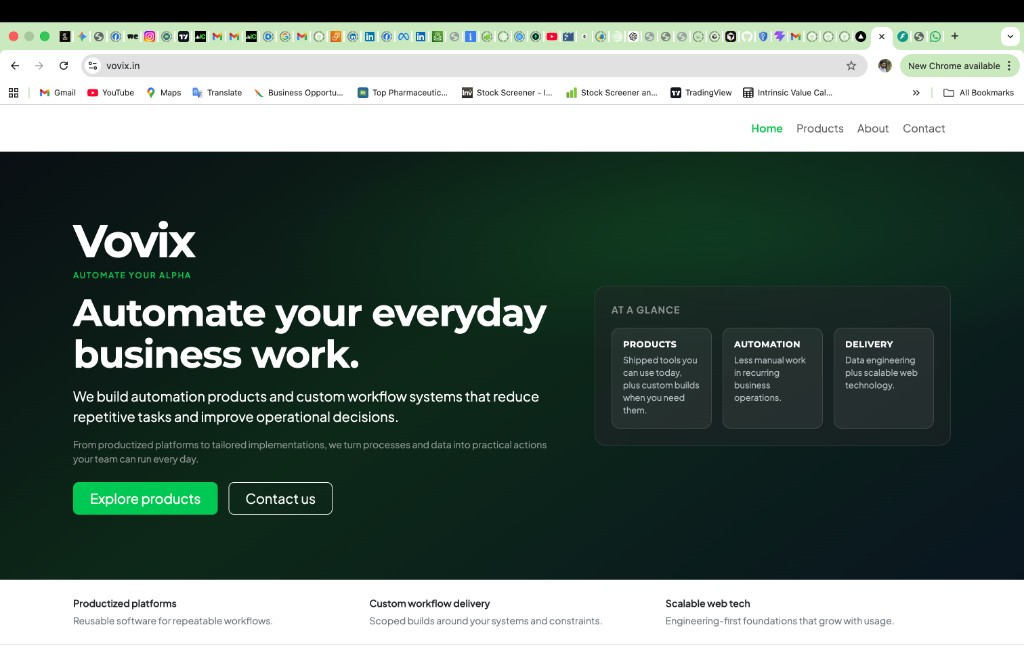
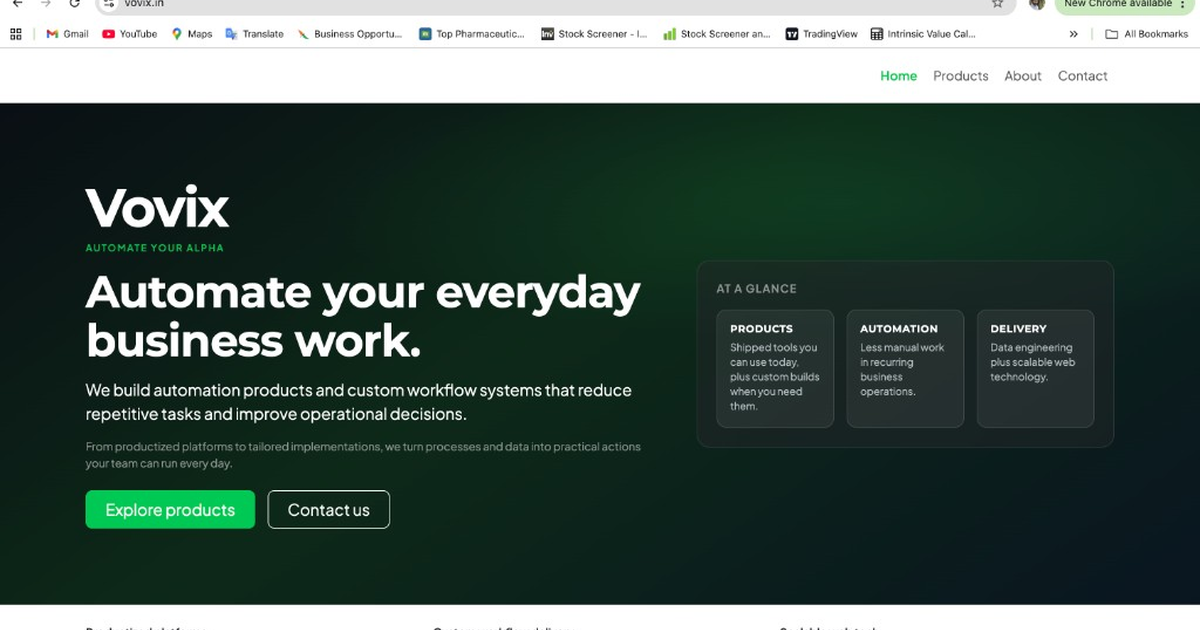
Fix corrupted social preview image format for Facebook scraper.
Convert og-image asset to a real 1200x630 PNG and update OG/Twitter metadata to use the clean static image URL without query params.

Made-with: Cursor

diff --git a/index.html b/index.html
@@ -16,8 +16,8 @@
     <meta property="og:type" content="website" />
     <meta property="og:site_name" content="Vovix" />
     <meta property="og:url" content="https://www.vovix.in/" />
-    <meta property="og:image" content="https://www.vovix.in/assets/og-image.png?v=20260426f" />
-    <meta property="og:image:secure_url" content="https://www.vovix.in/assets/og-image.png?v=20260426f" />
+    <meta property="og:image" content="https://www.vovix.in/assets/og-image.png" />
+    <meta property="og:image:secure_url" content="https://www.vovix.in/assets/og-image.png" />
     <meta property="og:image:width" content="1200" />
     <meta property="og:image:height" content="630" />
     <meta property="og:image:alt" content="Vovix - Automate Your Alpha" />
@@ -27,7 +27,7 @@
       name="twitter:description"
       content="Vovix Private Limited (vovix.in), India: automation products, operational intelligence, and custom workflow delivery for teams."
     />
-    <meta name="twitter:image" content="https://www.vovix.in/assets/og-image.png?v=20260426f" />
+    <meta name="twitter:image" content="https://www.vovix.in/assets/og-image.png" />
     <title>Vovix | Automate Your Alpha | Vovix Private Limited</title>
     <link rel="canonical" href="https://www.vovix.in/" />
     <link rel="icon" href="/assets/favicon.svg" type="image/svg+xml" />
